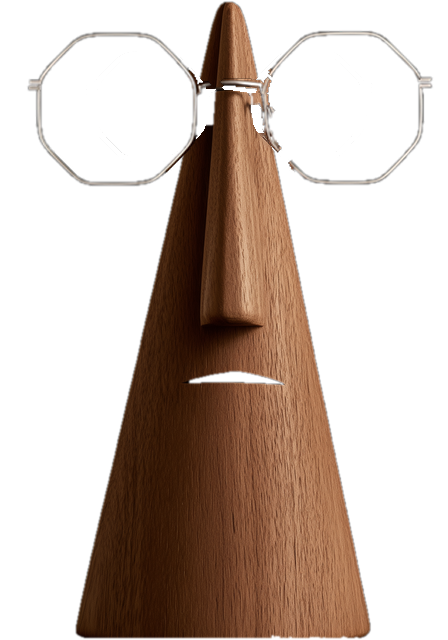
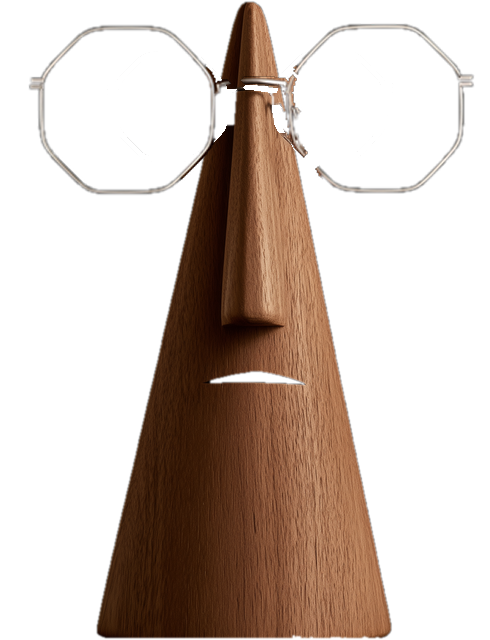
Bigger plane hop; smaller note in four lines; larger glasses; plant lit from the strip above
Claude-Session: https://claude.ai/code/session_01BKxVmdhpwGpXez5ZdSrwBH

Changed region(s): [[0.0625, 0.0, 0.9688, 1.0], [0.625, 0.0312, 0.9062, 0.0938], [0.4375, 0.3125, 0.4688, 0.5]]

diff --git a/styles.css b/styles.css
@@ -186,8 +186,8 @@ div.obj { cursor: default; }
 }
 /* inside a lit bay: warm light straight down from the strip above */
 .zone-shelf {
-  --grade: brightness(0.95) contrast(1.05) saturate(0.9) sepia(0.2);
-  --light: linear-gradient(180deg, rgba(255, 196, 120, 0) 35%, rgba(50, 26, 10, 0.35));
+  --grade: brightness(1.18) contrast(1.06) saturate(1) sepia(0.1);
+  --light: linear-gradient(180deg, rgba(255, 200, 130, 0) 55%, rgba(50, 26, 10, 0.22));
 }
 /* on the floor: warm glow from the shelves behind, a reflection in the polished boards */
 .zone-floor {
@@ -1113,10 +1113,10 @@ body.plane-3d .obj-plane:hover { transform: none; }
 }
 .rec-note-ink {
   position: absolute;
-  inset: 20% 6% 10%;
+  inset: 17% 8% 8%;
   display: flex;
   flex-direction: column;
-  align-items: center;
+  align-items: flex-start;
   justify-content: center;
   gap: 2px;
   font-family: "Dancing Script", "Segoe Script", cursive;
@@ -1127,8 +1127,10 @@ body.plane-3d .obj-plane:hover { transform: none; }
   mix-blend-mode: multiply;
   transform: rotate(-3deg);
 }
-.rn-1 { font-size: 20px; white-space: nowrap; }
-.rn-2 { font-size: 20px; white-space: nowrap; margin-left: 22px; }
+.rn { font-size: 20px; white-space: nowrap; }
+.rn-2 { margin-left: 14px; }
+.rn-3 { margin-left: 4px; }
+.rn-4 { margin-left: 26px; }
 .rec-note-pin {
   position: absolute;
   left: 50%;

diff --git a/js/layout.js b/js/layout.js
@@ -80,7 +80,7 @@ export const TITLE = {
 // behind the board's front edge (shelf line y≈495). sink = how far below that line the base really is.
 export const OBJECTS = {
   // left arch: holder a little left of centre and forward, hourglass set further back and turned slightly
-  glasses: { id: "glasses", x: 712, base: 495, sink: 9, w: 104, h: 148, zone: "arch-left" },
+  glasses: { id: "glasses", x: 712, base: 495, sink: 9, w: 114, h: 148, zone: "arch-left" },
   hourglass: { id: "hourglass", x: 866, base: 495, sink: 17, w: 77, h: 146, rot: 2, zone: "arch-left" },
   // centre arch: lamp a touch off-centre, as if pushed aside
   lamp: { id: "lamp", x: 1392, base: 495, sink: 10, w: 172, h: 204, zone: "lamp" },
@@ -93,5 +93,5 @@ export const OBJECTS = {
   // the note propped in the Recommended bay, tied by a string to the plane
   // pinned to the front of the plinth at the bottom-right, half hanging over its lower edge
   // flat sticky note, tacked to the middle of the case's right-hand upright: half over the bay, half over the wall
-  card: { x: 2362, top: 1218, w: 172, h: 136 },
+  card: { x: 2362, top: 1212, w: 128, h: 150 },
 };

diff --git a/js/plane3d.js b/js/plane3d.js
@@ -131,10 +131,10 @@ export function initPlane3D({ anchor, isHidden, isDark, tie, onReady }) {
     // in screen space: up and left in front of the case, a wide turn, then back down to land
     // a small hop: lift, a short curve out and back, and drop onto the same spot
     const pts = [
-      [0, 0, 0], [-0.28, 0.48, 0.18], [-0.85, 0.82, 0.36], [-1.28, 0.62, 0.36],
-      [-0.9, 0.28, 0.22], [-0.28, 0.06, 0.06], [0, 0, 0],
+      [0, 0, 0], [-0.42, 0.72, 0.27], [-1.28, 1.23, 0.54], [-1.92, 0.93, 0.54],
+      [-1.35, 0.42, 0.33], [-0.42, 0.09, 0.09], [0, 0, 0],
     ].map(([x, y, z]) => new THREE.Vector3(x * u, y * u, z * u));
-    flight = { curve: new THREE.CatmullRomCurve3(pts, false, "centripetal", 0.5), start: performance.now(), dur: 2600 };
+    flight = { curve: new THREE.CatmullRomCurve3(pts, false, "centripetal", 0.5), start: performance.now(), dur: 3100 };
   }
 
   const tmpQ = new THREE.Quaternion(), m4 = new THREE.Matrix4();

diff --git a/js/main.js b/js/main.js
@@ -833,7 +833,7 @@ function addCard() {
   card.setAttribute("aria-label", "Recommend a book");
   Object.assign(card.style, { left: `${C.x - C.w / 2}px`, top: `${C.top}px`, width: `${C.w}px`, height: `${C.h}px` });
   const ink = el("span", "rec-note-ink");
-  ink.append(el("span", "rn-1", "Recommend a book —"), el("span", "rn-2", "fly it to me!"));
+  ["Recommend", "a book —", "fly it", "to me!"].forEach((line, i) => ink.append(el("span", `rn rn-${i + 1}`, line)));
   card.append(el("span", "rec-note-sheet"), ink, el("span", "rec-note-pin"));
   card.addEventListener("click", (e) => { e.stopPropagation(); hideCard(); if (state.planeEl) openRecForm(state.planeEl); });
   $("objects").append(card);
